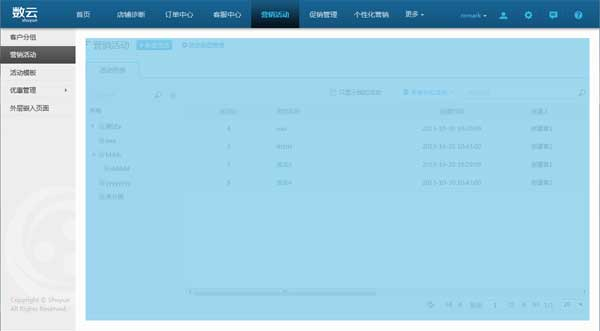
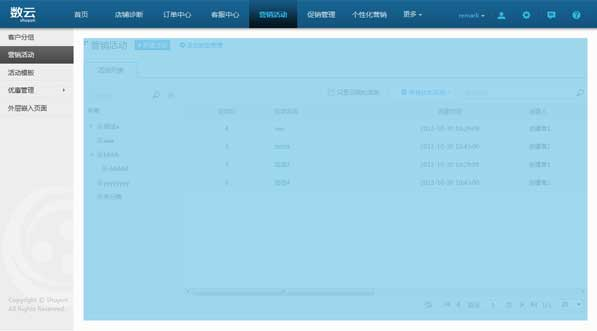
添加示例框样式、标题带前置图标样式

diff --git a/index.html b/index.html
@@ -40,7 +40,7 @@
                     <h3 class="text-emphasize">开发须知</h3>
                     <p  class="text-emphasize">为了快捷开发，本文档引入bootstrap样式库，因此在文档中开发样式时请注意是否受到bootstrap样式的影响。</p>
                     <h3>文档相关样式</h3>
-                    <p>文本样式请参照如下代码开发：</p>
+                    <p>1.文本样式请参照如下代码开发：</p>
 <pre class="prettyprint linenums html-line" data-doc='
 <div class="page-header">
     <h1>概述</h1>
@@ -49,7 +49,7 @@
 <p>为数据赢家定制css样式库，规范css样式，集中开发管理公用样式，使开发人员能够更为方便快捷的开发页面。</p>
 '>
 </pre>
-                    <p>项目引入Google Code Prettify来高亮代码显示，html代码请参照如下代码开发。</p>
+                    <p>2.项目引入Google Code Prettify来高亮代码显示，html代码请参照如下代码开发。</p>
 <pre class="prettyprint linenums html-line" data-doc='
 <pre class="prettyprint linenums html-line" lang="html" data-doc="
     <meta name="viewport" content="width=device-width, initial-scale=1, maximum-scale=1, user-scalable=no">
@@ -60,6 +60,16 @@
     </section>
 ">
 </pre>
+'>
+</pre>
+                    <p>3.示例框开发</p>
+                    <div class="bs-docs-example">
+                        <span class="title-with-prefix-icon">营销活动</span>
+                    </div>
+<pre class="prettyprint linenums html-line" data-doc='
+<div class="bs-docs-example">
+    <span class="title-with-prefix-icon">营销活动</span>
+</div>
 '>
 </pre>
                 </section>

diff --git a/base-css.html b/base-css.html
@@ -26,7 +26,7 @@
         <div class="col-sm-3 bs-docs-sidebar">
             <ul class="nav nav-list bs-docs-sidenav affix-top" data-spy="affix" data-offset-top="70">
                 <li class="active"><a href="#layout">页面布局<i class="icon-chevron-right"></i></a></li>
-                <li><a href="#global-variable">全局变量<i class="icon-chevron-right"></i></a></li>
+                <li><a href="#title">标题<i class="icon-chevron-right"></i></a></li>
                 <li><a href="#mixins">Mixins<i class="icon-chevron-right"></i></a></li>
             </ul>
         </div>
@@ -42,7 +42,22 @@
 <div class="maincontainer"></div>
 '>
 </pre>
-                <p>根据设计稿将外边距统一设置为20px; 开发时请不要添加额外的边距。</p>
+                <p>已经按照UI规范设计稿将外边距统一设置为20px; 开发时请不要添加额外的边距。</p>
+            </section>
+            <section id="title">
+                <div class="page-header">
+                    <h1>标题</h1>
+                </div>
+                <h3>带开始图标的标题</h3>
+                <div class="bs-docs-example">
+                    <span class="title-with-prefix-icon">营销活动</span>
+                </div>
+                <p>开发参照如下代码：</p>
+<pre class="prettyprint linenums html-line" data-doc='
+<span class="title-with-prefix-icon">营销活动</span>
+'>
+</pre>
+                <p>已经按照UI规范设计稿为改标题添加16px右侧外边距; 开发时请不要添加额外的边距。</p>
             </section>
         </div>
     </div>

diff --git a/css/main.less b/css/main.less
@@ -6,6 +6,7 @@ h1{
 h3{
   margin: 25px 0 15px 0;
 }
+.this-box-shadow{box-shadow: 2px 2px 5px #eee;}
 .navbar-fixed-top{
   .nav{height: 30px; margin-left: 40px;}
   .nav > li > a{color: #999;  line-height: 30px; &:hover, &:focus{background-color: transparent; color: #fff;}}
@@ -68,4 +69,27 @@ section{padding-top: 30px;}
       }
     }
   }
+}
+//  实例框
+.bs-docs-example{
+  &:after{
+    background-color: #f5f5f5;
+    border: 1px solid #ddd;
+    border-radius: 4px 0;
+    color: #9da0a4;
+    content: "Example";
+    font-size: 12px;
+    font-weight: bold;
+    left: -1px;
+    padding: 3px 7px;
+    position: absolute;
+    top: -1px;
+  }
+  background-color: #fff;
+  border: 1px solid #ddd;
+  border-radius: 4px;
+  margin: 15px 0;
+  padding: 39px 19px 14px;
+  position: relative;
+  .this-box-shadow;
 }

diff --git a/ccms/base-css.less b/ccms/base-css.less
@@ -30,3 +30,13 @@ a:hover{
   margin-left: 0;         //  为覆盖comm_css.css文件样式,最后应删除
   padding: 0;             //  为覆盖comm_css.css文件样式,最后应删除
 }
+
+// 标题相关
+.title-with-prefix-icon{
+  background: url("@{img-url}all.png") no-repeat scroll -485px -143px transparent;
+  display: inline-block;
+  font-size: @font-size-title;
+  line-height: 25px;
+  margin-right: 16px;
+  text-indent: 15px;
+}

diff --git a/ccms/global-variable.less b/ccms/global-variable.less
@@ -1,3 +1,5 @@
+//img url
+@img-url: 'img/';
 // default font family
 @font-family-default: Tahoma, '微软雅黑';
 // font style for titile
